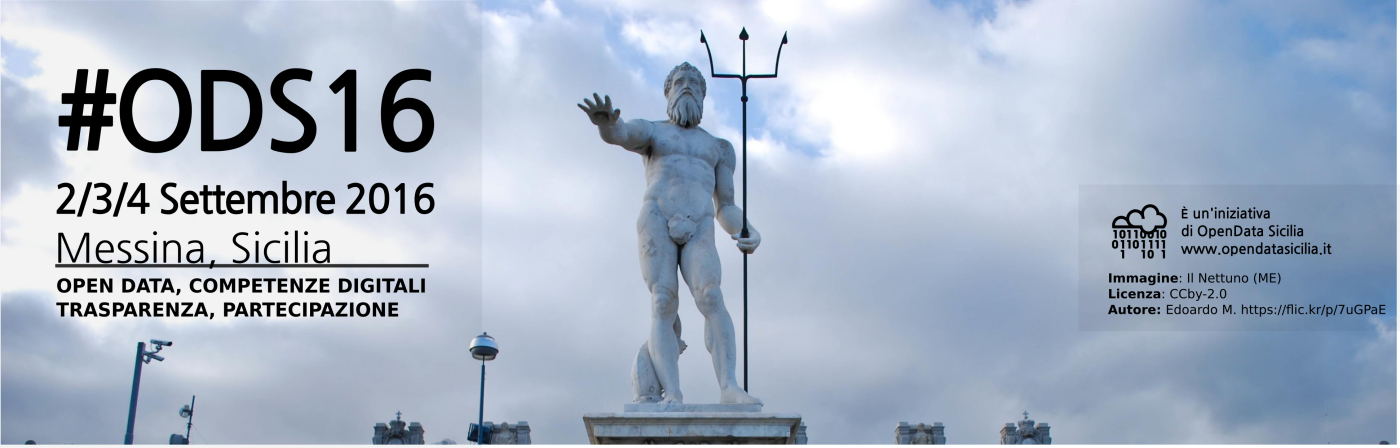
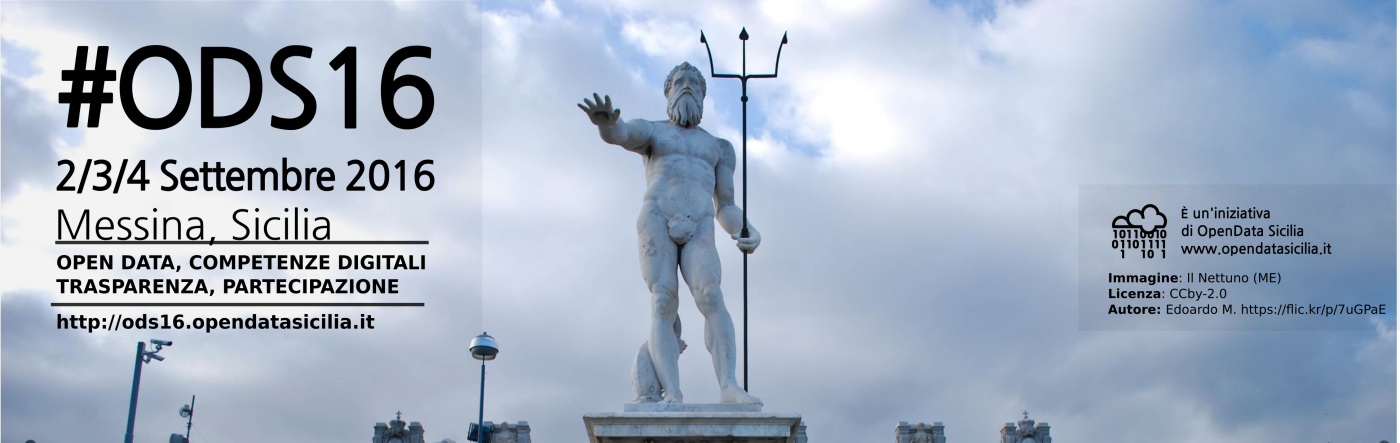
canciata cover (ci misi l'indirizzu du situ)

diff --git a/index.html b/index.html
@@ -112,24 +112,14 @@
                 <div class="col-lg-12">
                     <div id="disqus_thread"></div>
                     <script>
-                    /**
-                    *  RECOMMENDED CONFIGURATION VARIABLES: EDIT AND UNCOMMENT THE SECTION BELOW TO INSERT DYNAMIC VALUES FROM YOUR PLATFORM OR CMS.
-                    *  LEARN WHY DEFINING THESE VARIABLES IS IMPORTANT: https://disqus.com/admin/universalcode/#configuration-variables
-                    */
-                    /*
-                    var disqus_config = function () {
-                        this.page.url = PAGE_URL;  // Replace PAGE_URL with your page's canonical URL variable
-                        this.page.identifier = PAGE_IDENTIFIER; // Replace PAGE_IDENTIFIER with your page's unique identifier variable
-                    };
-                    */
-                    (function() {  // DON'T EDIT BELOW THIS LINE
-                        var d = document, s = d.createElement('script');
+                        (function() {  // DON'T EDIT BELOW THIS LINE
+                            var d = document, s = d.createElement('script');
                         
-                        s.src = '//opendatasicilia.disqus.com/embed.js';
+                            s.src = '//opendatasicilia.disqus.com/embed.js';
                         
-                        s.setAttribute('data-timestamp', +new Date());
-                        (d.head || d.body).appendChild(s);
-                    })();
+                            s.setAttribute('data-timestamp', +new Date());
+                            (d.head || d.body).appendChild(s);
+                        })();
                     </script>
                     <noscript>Please enable JavaScript to view the <a href="https://disqus.com/?ref_noscript" rel="nofollow">comments powered by Disqus.</a></noscript>
                     </div>
